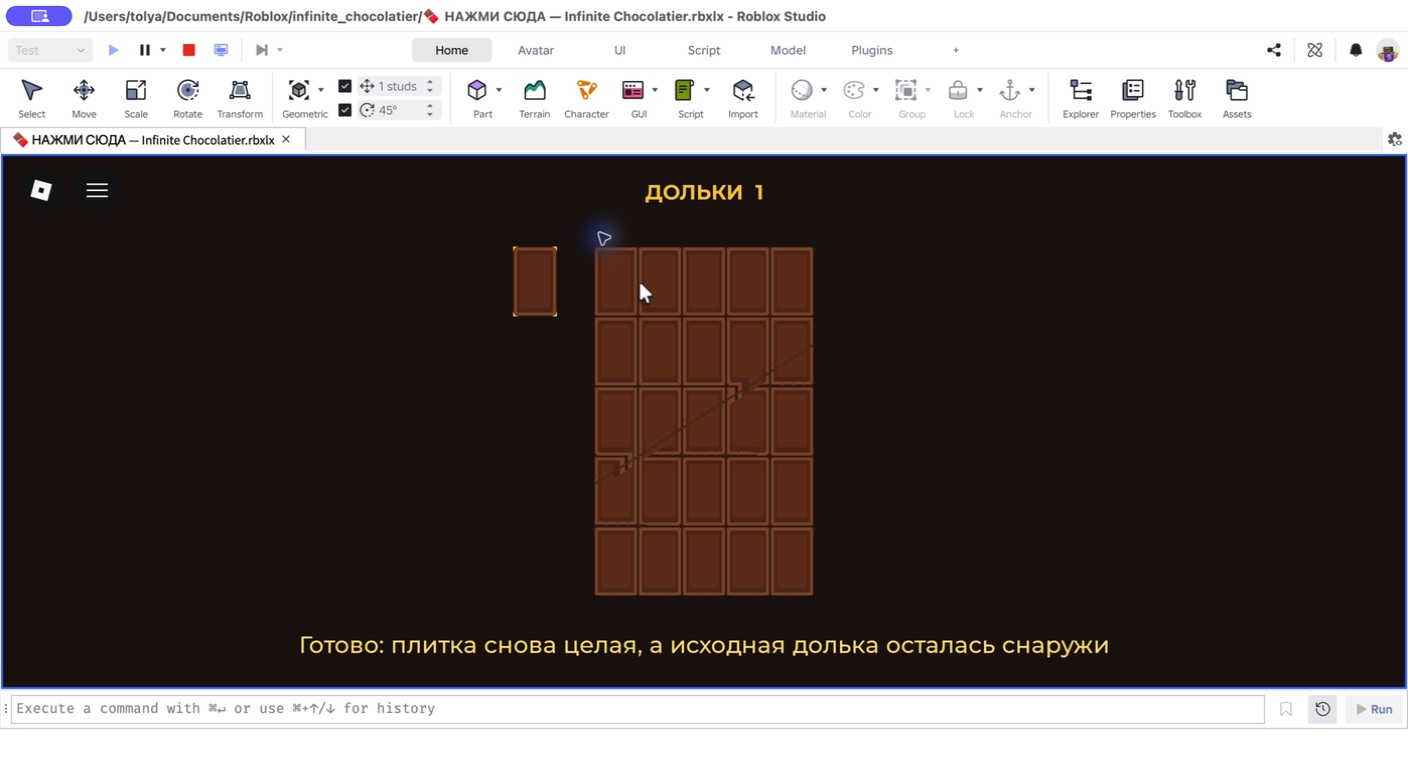
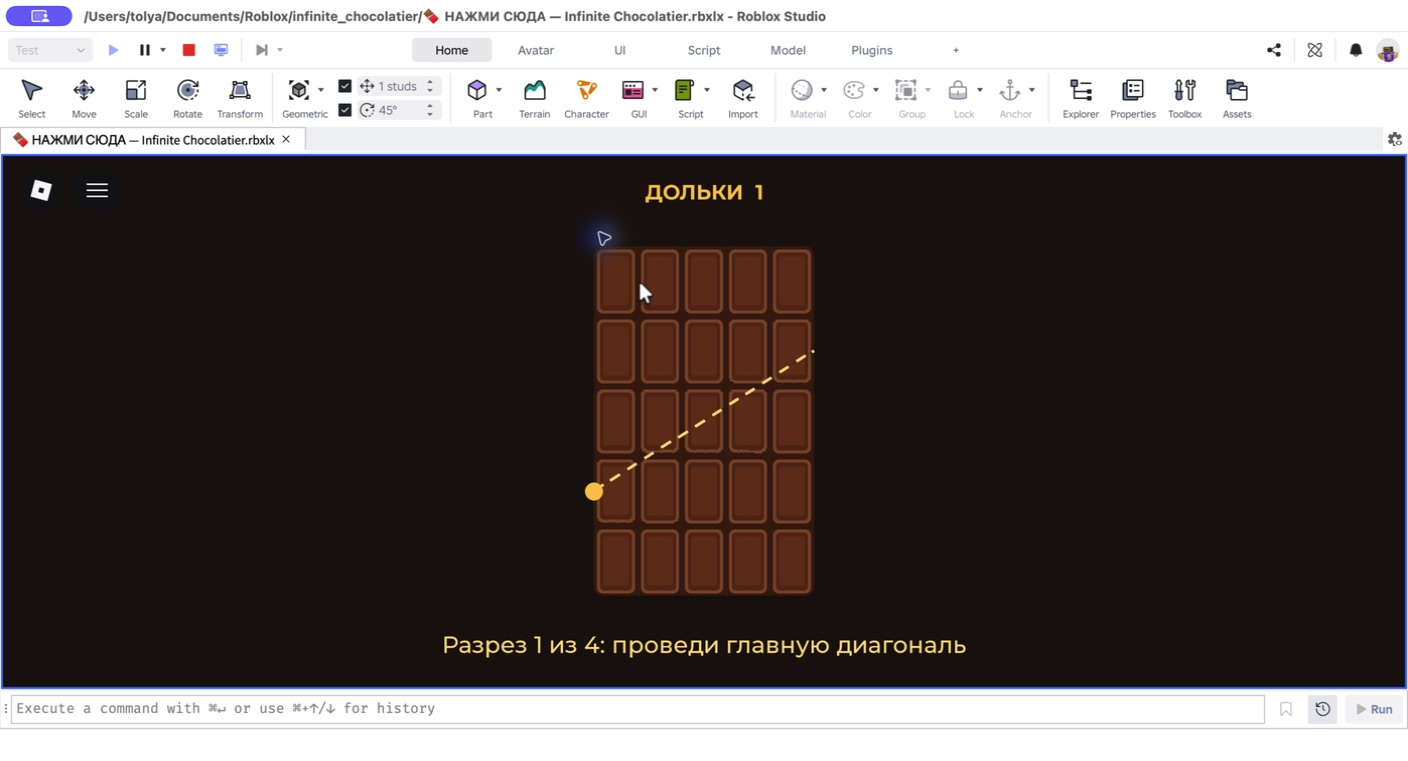
Restore rounded chocolate relief

Changed region(s): [[0.3438, 0.3022, 0.5938, 0.7858], [0.2188, 0.816, 0.7812, 0.8765]]

diff --git a/HANDOFF.md b/HANDOFF.md
@@ -81,9 +81,11 @@ rojo serve
 Curry-полоса больше не видна, сетка продолжается через неё без ступенек, а
 компенсационная кромка не выскакивает целиком на первом движении: её твёрдая
 высота линейно растёт от нуля до `0,2` ряда вместе с жестом, без альфа-анимации.
-После сравнения с новой записью границы долек сделаны тоньше и прямее, а кромка
-растягивает цвет над резом вместо открытия рисунка снизу. Светлый отдельный
-«уголок» на медленном сдвиге больше не возникает.
+Кромка растягивает цвет над резом вместо открытия рисунка снизу, поэтому
+светлый отдельный «уголок» на медленном сдвиге больше не возникает. Попытка
+заодно сделать все бороздки тонкими и углы почти прямыми была отменена после
+визуальной проверки: она уничтожала объём долек и не относится к механике
+иллюзии. Сохранены прежние округлые рамки и трёхслойный шоколадный рельеф.
 Отдельно проверено, что отпускание на прежних 94% не завершает диагональ, а
 следующий пунктир появляется лишь после доведения последних пикселей и
 отпускания. Developer Console показала `0` ошибок и `0` предупреждений.

diff --git a/REFERENCE_ANALYSIS.md b/REFERENCE_ANALYSIS.md
@@ -61,8 +61,10 @@
 
 Текущая версия продолжает вниз цвет точки непосредственно над резом. Поэтому
 она растягивает уже видимый край спрайта и принципиально не может открыть новую
-деталь снизу. Одновременно бороздка уменьшена, минимальное скругление снижено,
-а пропорции фаски оставлены вытянутыми, как в оригинальной рисовке.
+деталь снизу. Эксперимент с уменьшением всех бороздок и скруглений оказался
+ошибочным: на крупном игровом экране дольки становились плоскими рамками и
+теряли шоколадный объём. Его полностью отменили; исправление кромки не меняет
+пропорции фаски, округлые углы и внутренний рельеф.
 
 ## Геометрия фокуса
 

diff --git a/README.md b/README.md
@@ -35,7 +35,8 @@
 компенсационной высоты, а не сразу вся полоса. При этом вниз продолжается цвет
 последнего пикселя над резом — уже видимая текстура растягивается, поэтому из
 диагонали не может отдельно вырасти угол рамки. Альфа-прозрачность для этого
-не используется. Подробности и фазы ролика записаны в
+не используется. Ширина фасок, округлые углы и трёхслойный шоколадный рельеф
+при этом не меняются. Подробности и фазы ролика записаны в
 [REFERENCE_ANALYSIS.md](REFERENCE_ANALYSIS.md).
 
 ## Проверки
